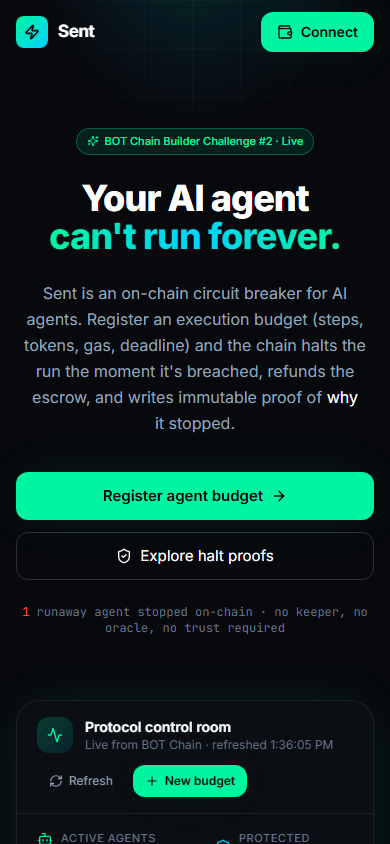
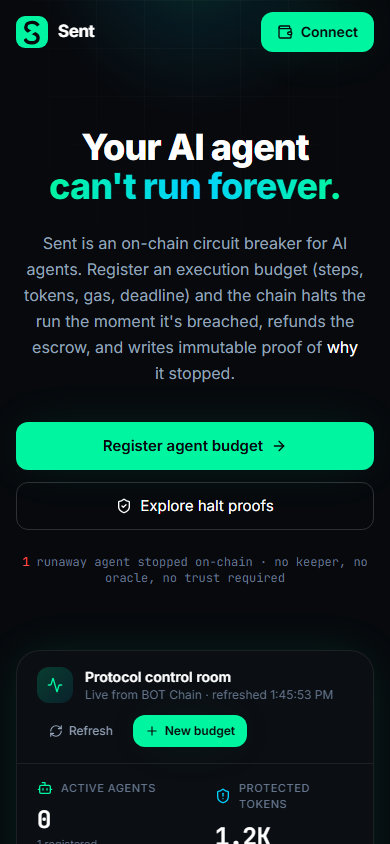
Add brand mark, drop hero badge, shrink network label
Replaces the placeholder lucide Zap icon with a real logo. The mark is an "S"
drawn as one continuous stroke, then severed by a clean angled channel: the
circuit breaker applied to the logo itself. The cut is masked rather than drawn
as two separate paths, so the gap holds a constant width and reads as
deliberate at every size instead of looking like a wobbly letterform.

Geometry was tuned against real 16 / 24 / 32px renders rather than by eye at
poster size. Earlier attempts failed that test: a full-tile diagonal slice read
well at 104px but turned to mush as a favicon, and contact-dot variants looked
like rendering artifacts. Gap 3.6 at -34 degrees keeps the break obvious while
the glyph still resolves as an S at 16px.

Ships as LogoMark (gradient tile) and LogoGlyph (transparent, gradient stroke),
wired into the nav and footer, plus public/logo.svg as an SVG favicon and
apple-touch-icon. Mask and gradient ids are derived from useId so multiple
instances on one page cannot collide.

Removes the "BOT Chain Builder Challenge #2" badge from the hero, and drops the
navbar network label to a 9px uppercase pill so it reads as metadata rather
than competing with the wordmark.

Also adds a retry around the verifier's chain read: a single transient RPC
timeout was aborting an entire UI run, which happened once during this change.

15/15 browser checks passing against mainnet; screenshots regenerated.

diff --git a/frontend/src/components/Logo.tsx b/frontend/src/components/Logo.tsx
@@ -1,0 +1,90 @@
+import { useId } from "react";
+
+/**
+ * Sent's brand mark.
+ *
+ * An "S" drawn as a single continuous stroke, then severed by a clean angled
+ * channel: the circuit breaker doing its job to the logo itself. The cut is
+ * masked rather than drawn as two paths, so the gap stays a constant width and
+ * reads as deliberate at every size, down to a 16px favicon.
+ *
+ * Geometry lives in a 32x32 box. Gap 3.6 at -34 degrees was tuned against
+ * 16 / 24 / 32px renders: wide enough to read as a break, tight enough that
+ * the glyph still resolves as an S when it is 16 pixels tall.
+ */
+
+const S_PATH =
+  "M22.8 10.6c-1.3-3-4.3-4.2-6.8-4.2-3.5 0-6.2 1.9-6.2 4.8 0 2.2 1.5 3.5 " +
+  "3.8 4.4l4.6 1.8c2.4 1 3.9 2.4 3.9 4.6 0 3.1-2.8 4.8-6.3 4.8-2.7 0-5.6-1.2-6.9-3.9";
+
+const GAP = 3.6;
+const ANGLE = -34;
+
+/** The full lockup tile: gradient square with the severed S knocked out. */
+export function LogoMark({ className = "h-8 w-8" }: { className?: string }) {
+  const uid = useId().replace(/:/g, "");
+  return (
+    <svg viewBox="0 0 32 32" className={className} role="img" aria-label="Sent">
+      <defs>
+        <linearGradient id={`sg-${uid}`} x1="0" y1="0" x2="32" y2="32">
+          <stop offset="0" stopColor="#00F5A0" />
+          <stop offset="1" stopColor="#00D2FF" />
+        </linearGradient>
+        <mask id={`sm-${uid}`}>
+          <rect width="32" height="32" fill="#fff" />
+          <rect
+            x="-10"
+            y={16 - GAP / 2}
+            width="52"
+            height={GAP}
+            fill="#000"
+            transform={`rotate(${ANGLE} 16 16)`}
+          />
+        </mask>
+      </defs>
+      <rect width="32" height="32" rx="9" fill={`url(#sg-${uid})`} />
+      <path
+        d={S_PATH}
+        stroke="#07090D"
+        strokeWidth="3.4"
+        strokeLinecap="round"
+        fill="none"
+        mask={`url(#sm-${uid})`}
+      />
+    </svg>
+  );
+}
+
+/** Glyph only, gradient stroke on transparent. For dense or monochrome spots. */
+export function LogoGlyph({ className = "h-6 w-6" }: { className?: string }) {
+  const uid = useId().replace(/:/g, "");
+  return (
+    <svg viewBox="0 0 32 32" className={className} role="img" aria-label="Sent">
+      <defs>
+        <linearGradient id={`gg-${uid}`} x1="4" y1="4" x2="28" y2="28">
+          <stop offset="0" stopColor="#00F5A0" />
+          <stop offset="1" stopColor="#00D2FF" />
+        </linearGradient>
+        <mask id={`gm-${uid}`}>
+          <rect width="32" height="32" fill="#fff" />
+          <rect
+            x="-10"
+            y={16 - GAP / 2}
+            width="52"
+            height={GAP}
+            fill="#000"
+            transform={`rotate(${ANGLE} 16 16)`}
+          />
+        </mask>
+      </defs>
+      <path
+        d={S_PATH}
+        stroke={`url(#gg-${uid})`}
+        strokeWidth="3.6"
+        strokeLinecap="round"
+        fill="none"
+        mask={`url(#gm-${uid})`}
+      />
+    </svg>
+  );
+}

diff --git a/frontend/src/components/Nav.tsx b/frontend/src/components/Nav.tsx
@@ -1,6 +1,7 @@
 import { useEffect, useState } from "react";
-import { AlertTriangle, Command, Wallet, Zap } from "lucide-react";
-import { Badge, Button, LiveDot } from "@/components/ui";
+import { AlertTriangle, Command, Wallet } from "lucide-react";
+import { Button, LiveDot } from "@/components/ui";
+import { LogoMark } from "@/components/Logo";
 import { BOT_CHAIN } from "@/config/chain";
 import { cn, shortAddress } from "@/lib/utils";
 import type { WalletState } from "@/hooks/useWallet";
@@ -39,14 +40,12 @@ export function Nav({
     >
       <nav className="mx-auto flex h-16 max-w-7xl items-center justify-between gap-4 px-4 sm:px-6 lg:px-8">
         <a href="#top" className="flex items-center gap-2.5">
-          <span className="relative flex h-8 w-8 items-center justify-center rounded-lg bg-gradient-to-br from-brand-emerald to-brand-cyan">
-            <Zap className="h-4 w-4 text-background" strokeWidth={2.5} />
-          </span>
+          <LogoMark className="h-8 w-8" />
           <span className="text-[17px] font-bold tracking-tight">Sent</span>
-          <Badge tone="cyan" className="hidden sm:inline-flex">
+          <span className="hidden items-center gap-1.5 rounded-full border border-surface-border px-2 py-0.5 text-[9px] font-medium uppercase tracking-wider text-text-muted sm:inline-flex">
             <LiveDot />
             {BOT_CHAIN.name}
-          </Badge>
+          </span>
         </a>
 
         <div className="hidden items-center gap-1 md:flex">

diff --git a/frontend/src/components/Footer.tsx b/frontend/src/components/Footer.tsx
@@ -1,4 +1,5 @@
 import { ArrowRight, Github, Send, Zap } from "lucide-react";
+import { LogoMark } from "@/components/Logo";
 import { Badge, Button } from "@/components/ui";
 import { BOT_CHAIN, addressUrl } from "@/config/chain";
 import { CONTRACT_ADDRESSES, isDeployed } from "@/lib/contracts";
@@ -50,9 +51,7 @@ export function Footer() {
         <div className="grid gap-10 md:grid-cols-4">
           <div className="md:col-span-2">
             <div className="flex items-center gap-2.5">
-              <span className="flex h-8 w-8 items-center justify-center rounded-lg bg-gradient-to-br from-brand-emerald to-brand-cyan">
-                <Zap className="h-4 w-4 text-background" strokeWidth={2.5} />
-              </span>
+              <LogoMark className="h-8 w-8" />
               <span className="text-[17px] font-bold tracking-tight">Sent</span>
             </div>
             <p className="mt-4 max-w-sm text-sm leading-relaxed text-text-secondary">

diff --git a/frontend/src/components/Hero.tsx b/frontend/src/components/Hero.tsx
@@ -1,6 +1,6 @@
 import { motion } from "framer-motion";
-import { ArrowRight, ShieldCheck, Sparkles } from "lucide-react";
-import { Badge, Button } from "@/components/ui";
+import { ArrowRight, ShieldCheck } from "lucide-react";
+import { Button } from "@/components/ui";
 import { compact } from "@/lib/utils";
 
 export function Hero({
@@ -26,11 +26,6 @@ export function Hero({
           transition={{ duration: 0.6, ease: "easeOut" }}
           className="mx-auto max-w-3xl text-center"
         >
-          <Badge tone="emerald" className="mb-6">
-            <Sparkles className="h-3 w-3" />
-            BOT Chain Builder Challenge #2 · Live
-          </Badge>
-
           <h1 className="text-balance text-4xl font-extrabold leading-[1.08] tracking-tight sm:text-6xl lg:text-[68px]">
             Your AI agent
             <br />

diff --git a/frontend/index.html b/frontend/index.html
@@ -4,6 +4,8 @@
     <meta charset="UTF-8" />
     <meta name="viewport" content="width=device-width, initial-scale=1.0" />
     <meta name="theme-color" content="#07090D" />
+    <link rel="icon" type="image/svg+xml" href="/logo.svg" />
+    <link rel="apple-touch-icon" href="/logo.svg" />
     <title>Sent, On-Chain Agent Circuit Breaker</title>
     <meta
       name="description"
